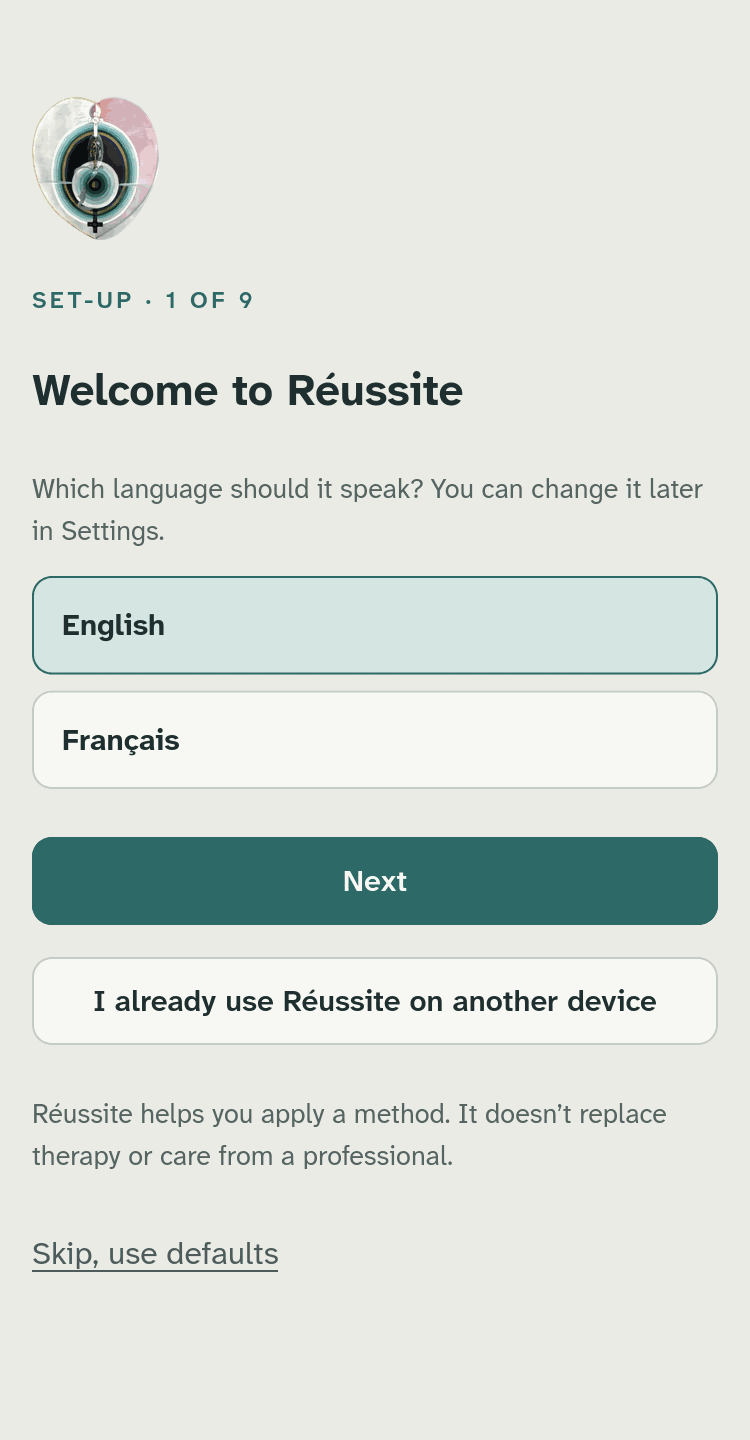
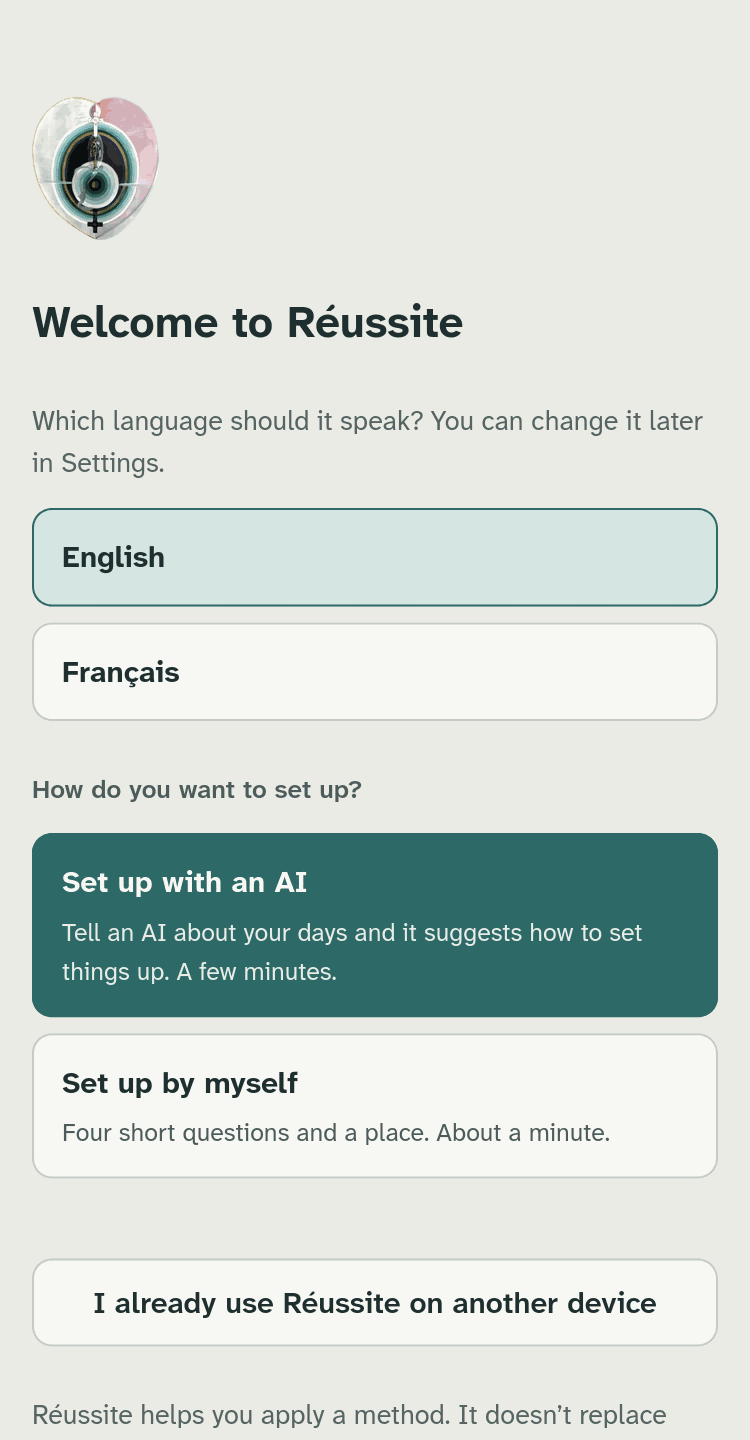
S9: the manual's first page and its picture, polish, WebKit-safe key step
Claude-Session: https://claude.ai/code/session_01PoqEP42m8ZAqBBYY1MyYki

diff --git a/src/styles/app.css b/src/styles/app.css
@@ -474,6 +474,7 @@ input[type=search]{width:100%;border:1px solid var(--line);background:var(--card
 .bigchoices{display:grid;gap:var(--s2);margin-top:var(--s3)}
 .bigchoices .btn{display:grid;justify-items:start;text-align:left;gap:var(--s1);padding:12px 14px}
 .bigchoices small{font-weight:400;color:var(--ink-2)}
+.bigchoices .btn.primary small{color:inherit;opacity:.88}
 .quote{margin-top:var(--s2);font-size:15px;padding:8px 12px;border-left:3px solid var(--accent);background:var(--card);border-radius:0 8px 8px 0;overflow-wrap:anywhere}
 
 /* decisions */
@@ -635,7 +636,7 @@ textarea.mono{letter-spacing:.04em}
 .obpillar{margin-top:var(--s3)}
 .obpillar .hint{margin:var(--s1) 0 0}
 .obsteps{margin:var(--s3) 0;padding-left:1.4em;display:grid;gap:var(--s2)}
-.obsteps a{overflow-wrap:anywhere}
+.obsteps a{overflow-wrap:anywhere;color:var(--accent);text-decoration:underline;text-underline-offset:3px}
 .obchat{display:grid;gap:var(--s2);margin:var(--s3) 0}
 .obchat .bubble{margin:0;padding:10px 14px;border-radius:16px;max-width:92%;overflow-wrap:anywhere}
 .obchat .bubble.you{background:var(--card);justify-self:start}

diff --git a/src/flows/onboarding.tsx b/src/flows/onboarding.tsx
@@ -165,7 +165,7 @@ export function Onboarding() {
   const notTherapy = <p class="hint ob-notherapy" data-testid="ob-not-therapy">{t('notTherapy')}</p>;
 
   if (id === 'language') return (
-    <Frame {...frame} mark title={t('obWelcome')} hint={t('obLanguageHint')} skip={skip}
+    <Frame {...frame} n={undefined} of={undefined} mark title={t('obWelcome')} hint={t('obLanguageHint')} skip={skip}
       extra={<>
         <button class="btn wide ob-pair-link" type="button" onClick={() => goTo('pair')} data-testid="ob-pair-link">{t('obHaveDevice')}</button>
         {notTherapy}
@@ -287,7 +287,7 @@ function KeyStep({ provider, setProvider, has, setHas, next, back, usePaste, ...
         <li>{t(link.steps[2])}</li>
         <li>{t('obKeyStepPaste')}</li>
       </ol>
-      <KeyField p={provider} onHas={setHas} />
+      <KeyField key={provider} p={provider} onHas={setHas} />
       {has && (
         <div class="actions">
           <button class="btn" type="button" disabled={test?.busy} onClick={run} data-testid="ob-key-test">{test?.busy ? t('aiTesting') : t('aiTest')}</button>

diff --git a/tests/e2e/onboarding.spec.ts b/tests/e2e/onboarding.spec.ts
@@ -196,6 +196,7 @@ test.describe('on a new device', () => {
     await page.getByTestId('ob-ai-anthropic').click();
     await expect(page.getByTestId('ob-key-link')).toHaveAttribute('href', /anthropic\.com/);
     await page.getByTestId('ob-ai-openai').click();
+    await expect(page.getByTestId('ob-key-link')).toHaveAttribute('href', 'https://openrouter.ai/keys'); // the switch has rendered
     await page.getByTestId('ai-key').fill('sk-or-test');
     await page.getByTestId('ai-key-save').click();
     await expect(page.getByTestId('ob-next')).toBeEnabled();
